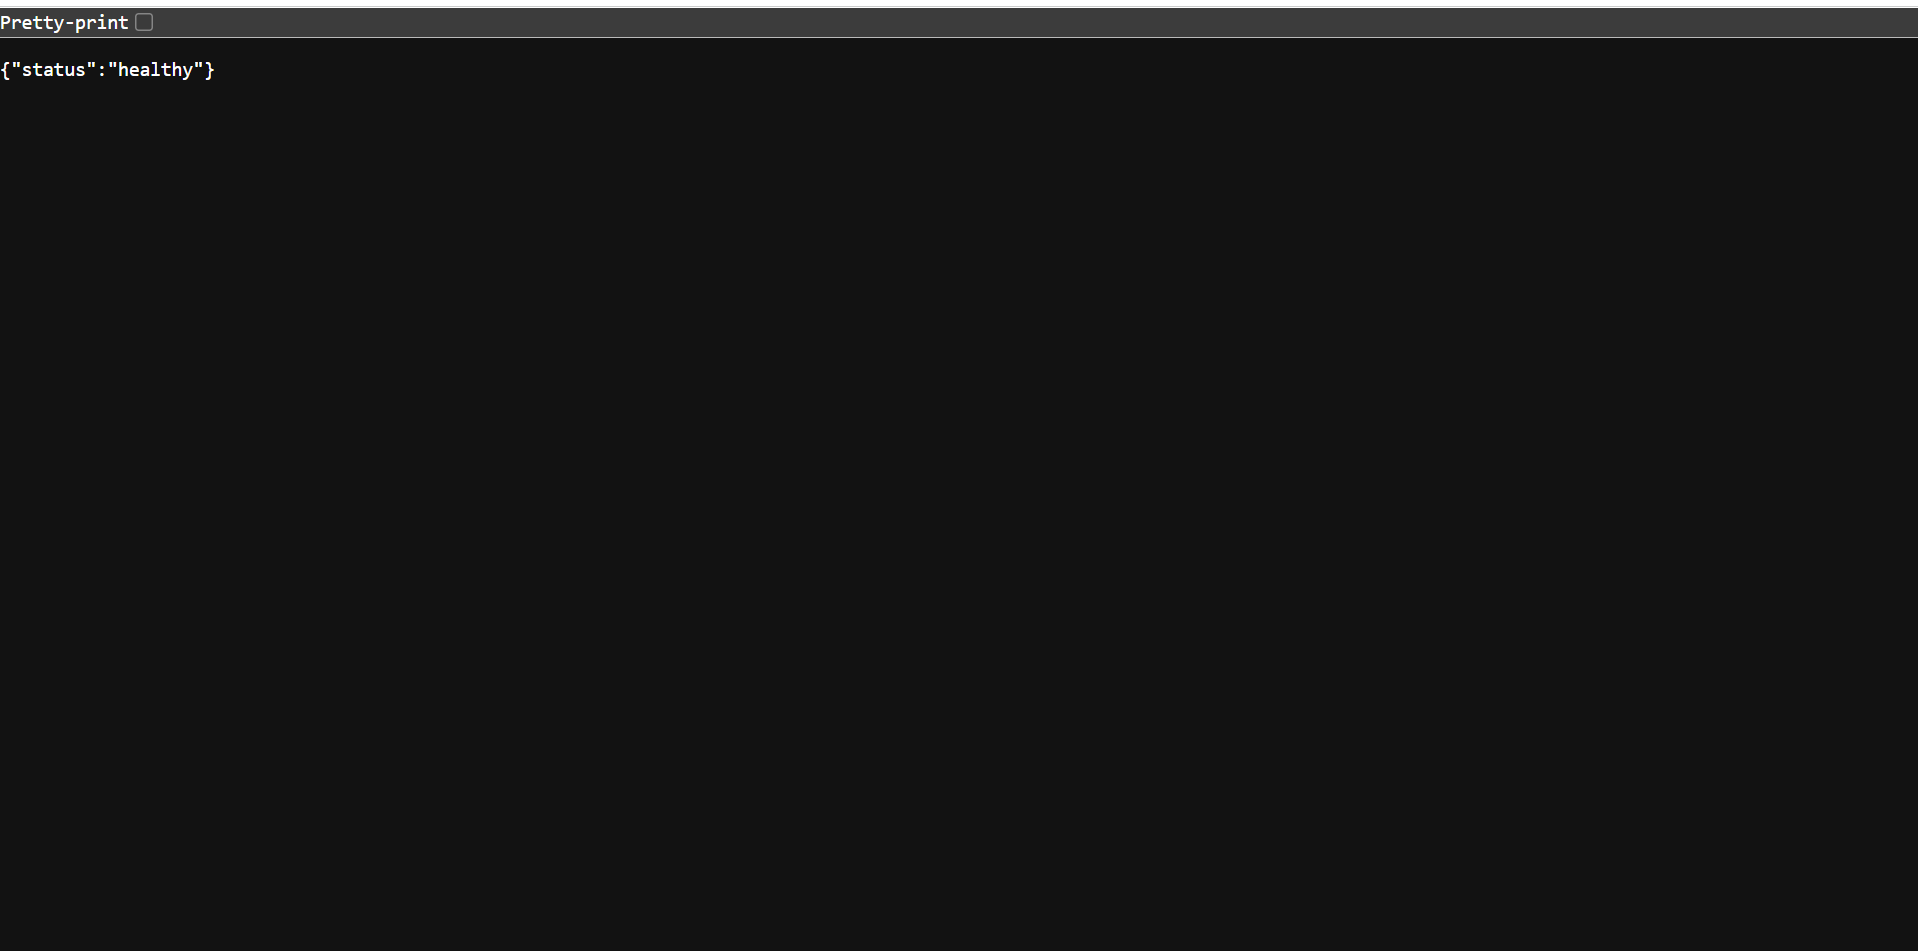
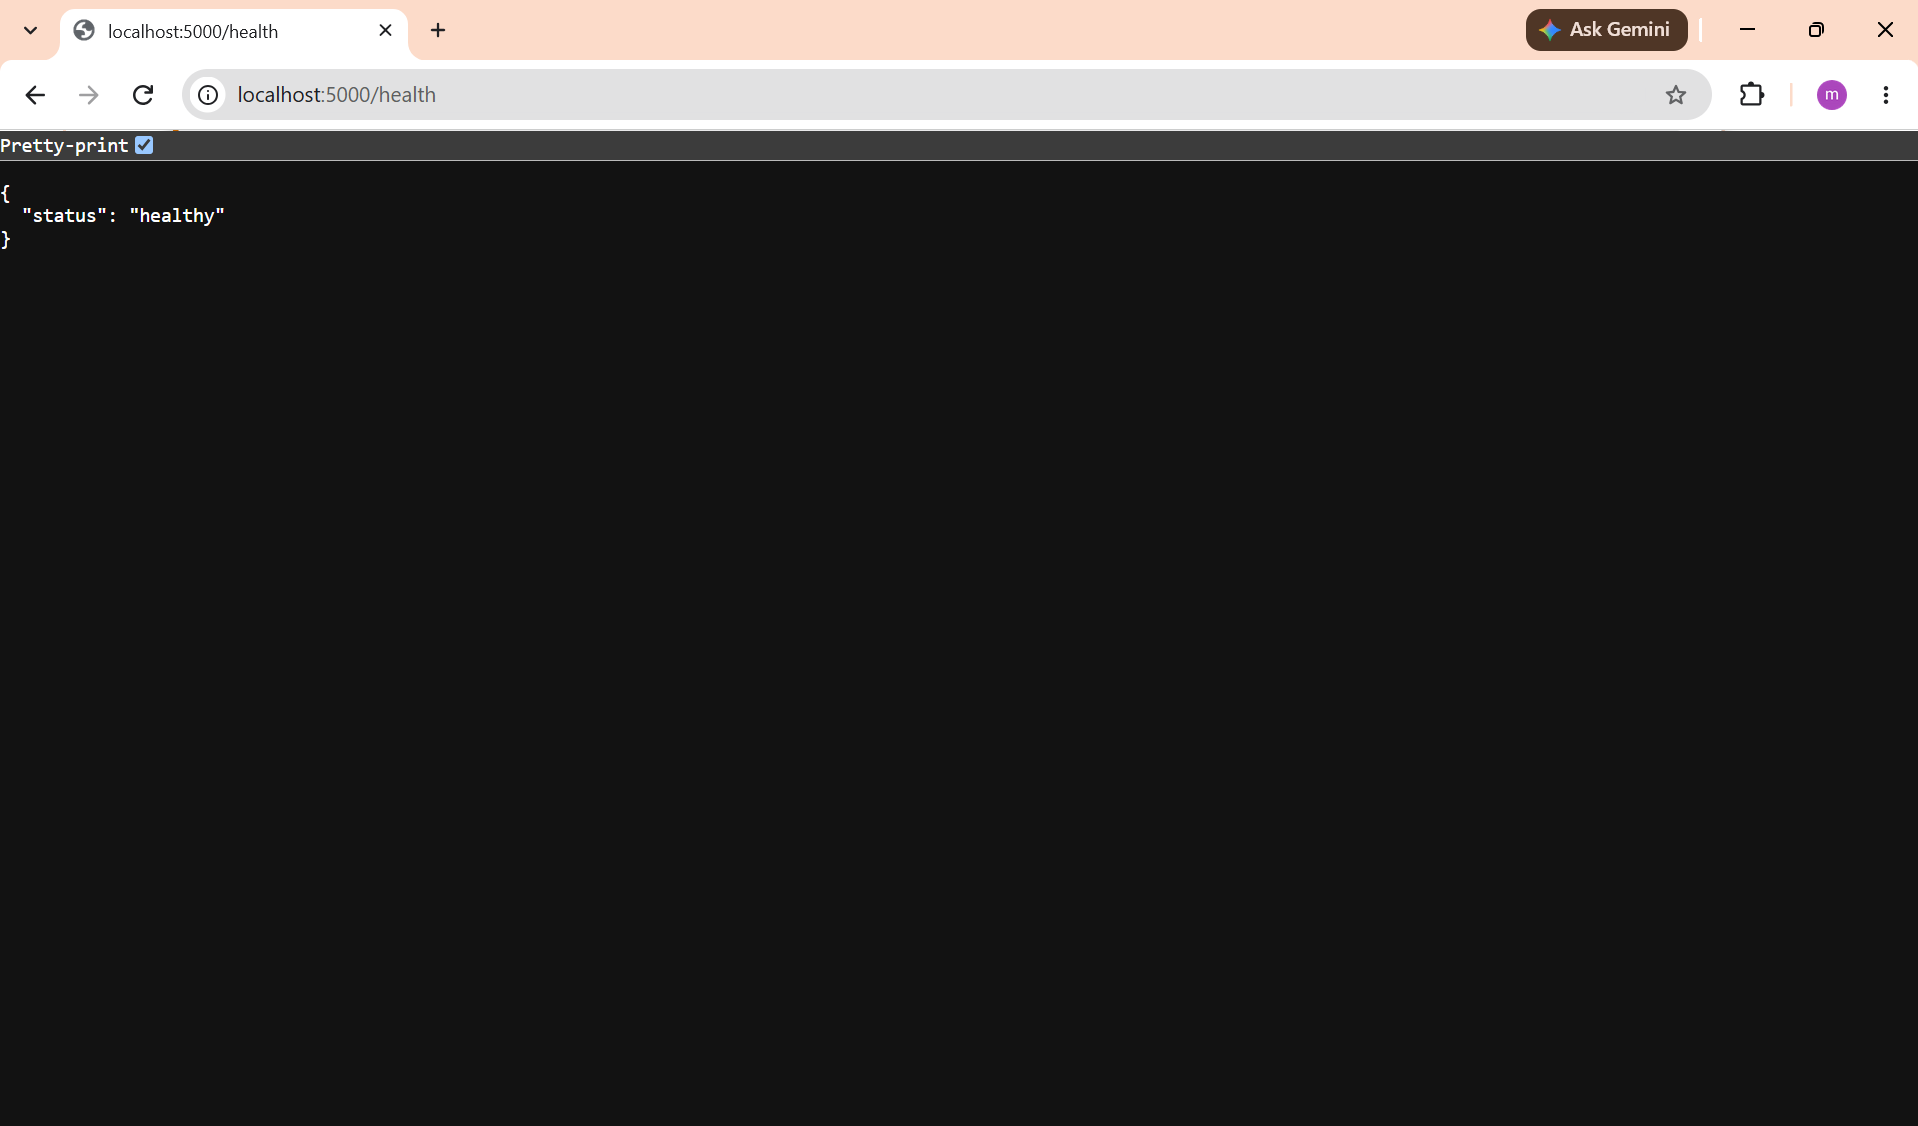
Update health check screenshot and caption

Changed region(s): [[0.0, 0.0, 1.0, 0.1525], [0.0, 0.183, 0.123, 0.2135]]

diff --git a/README.md b/README.md
@@ -127,9 +127,9 @@ The deployment process runs after the required testing and image-building stages
 
 ![CloudWatch application logs](docs/images/cloudwatch-logs.png)
 
-### Application Health Check
+### Application Health Check – Local Docker Compose
 
-![Application health check response](docs/images/health-check.png)
+![Local Docker Compose health check](docs/images/health-check.png)
 
 **Availability note:** The ECS service is not continuously running while its desired count is zero. Running Fargate tasks can incur charges.
 
